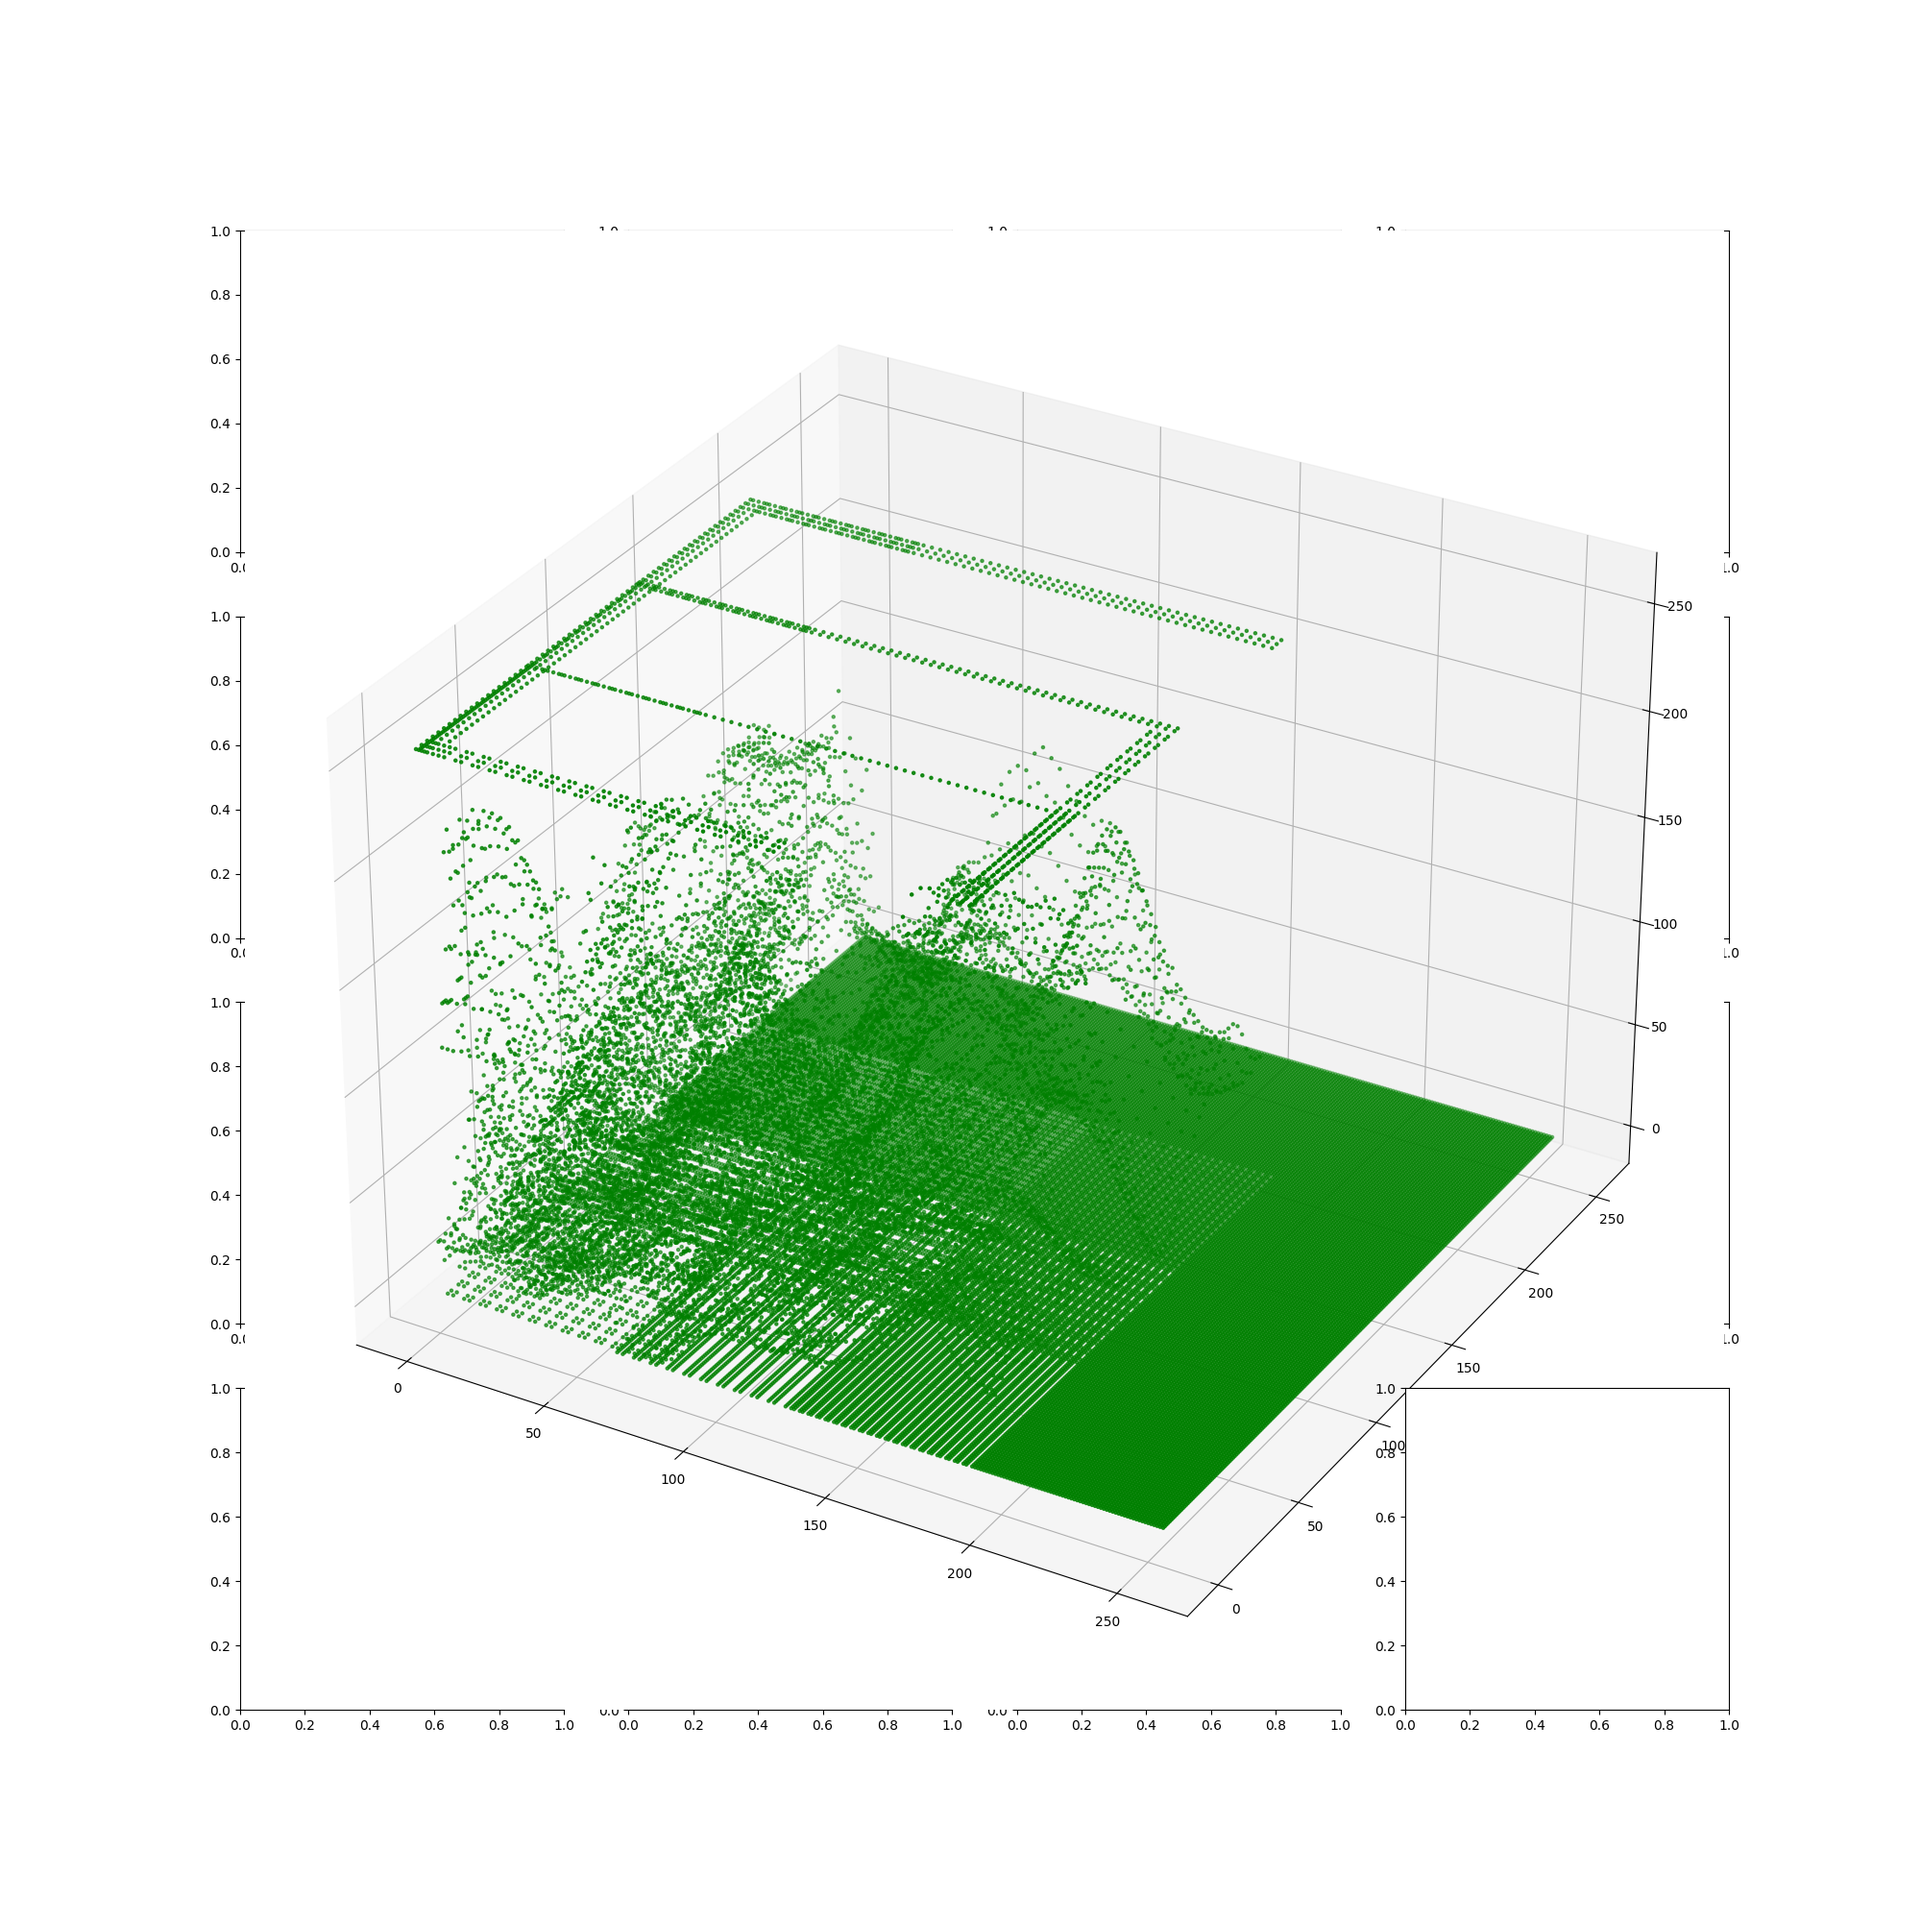
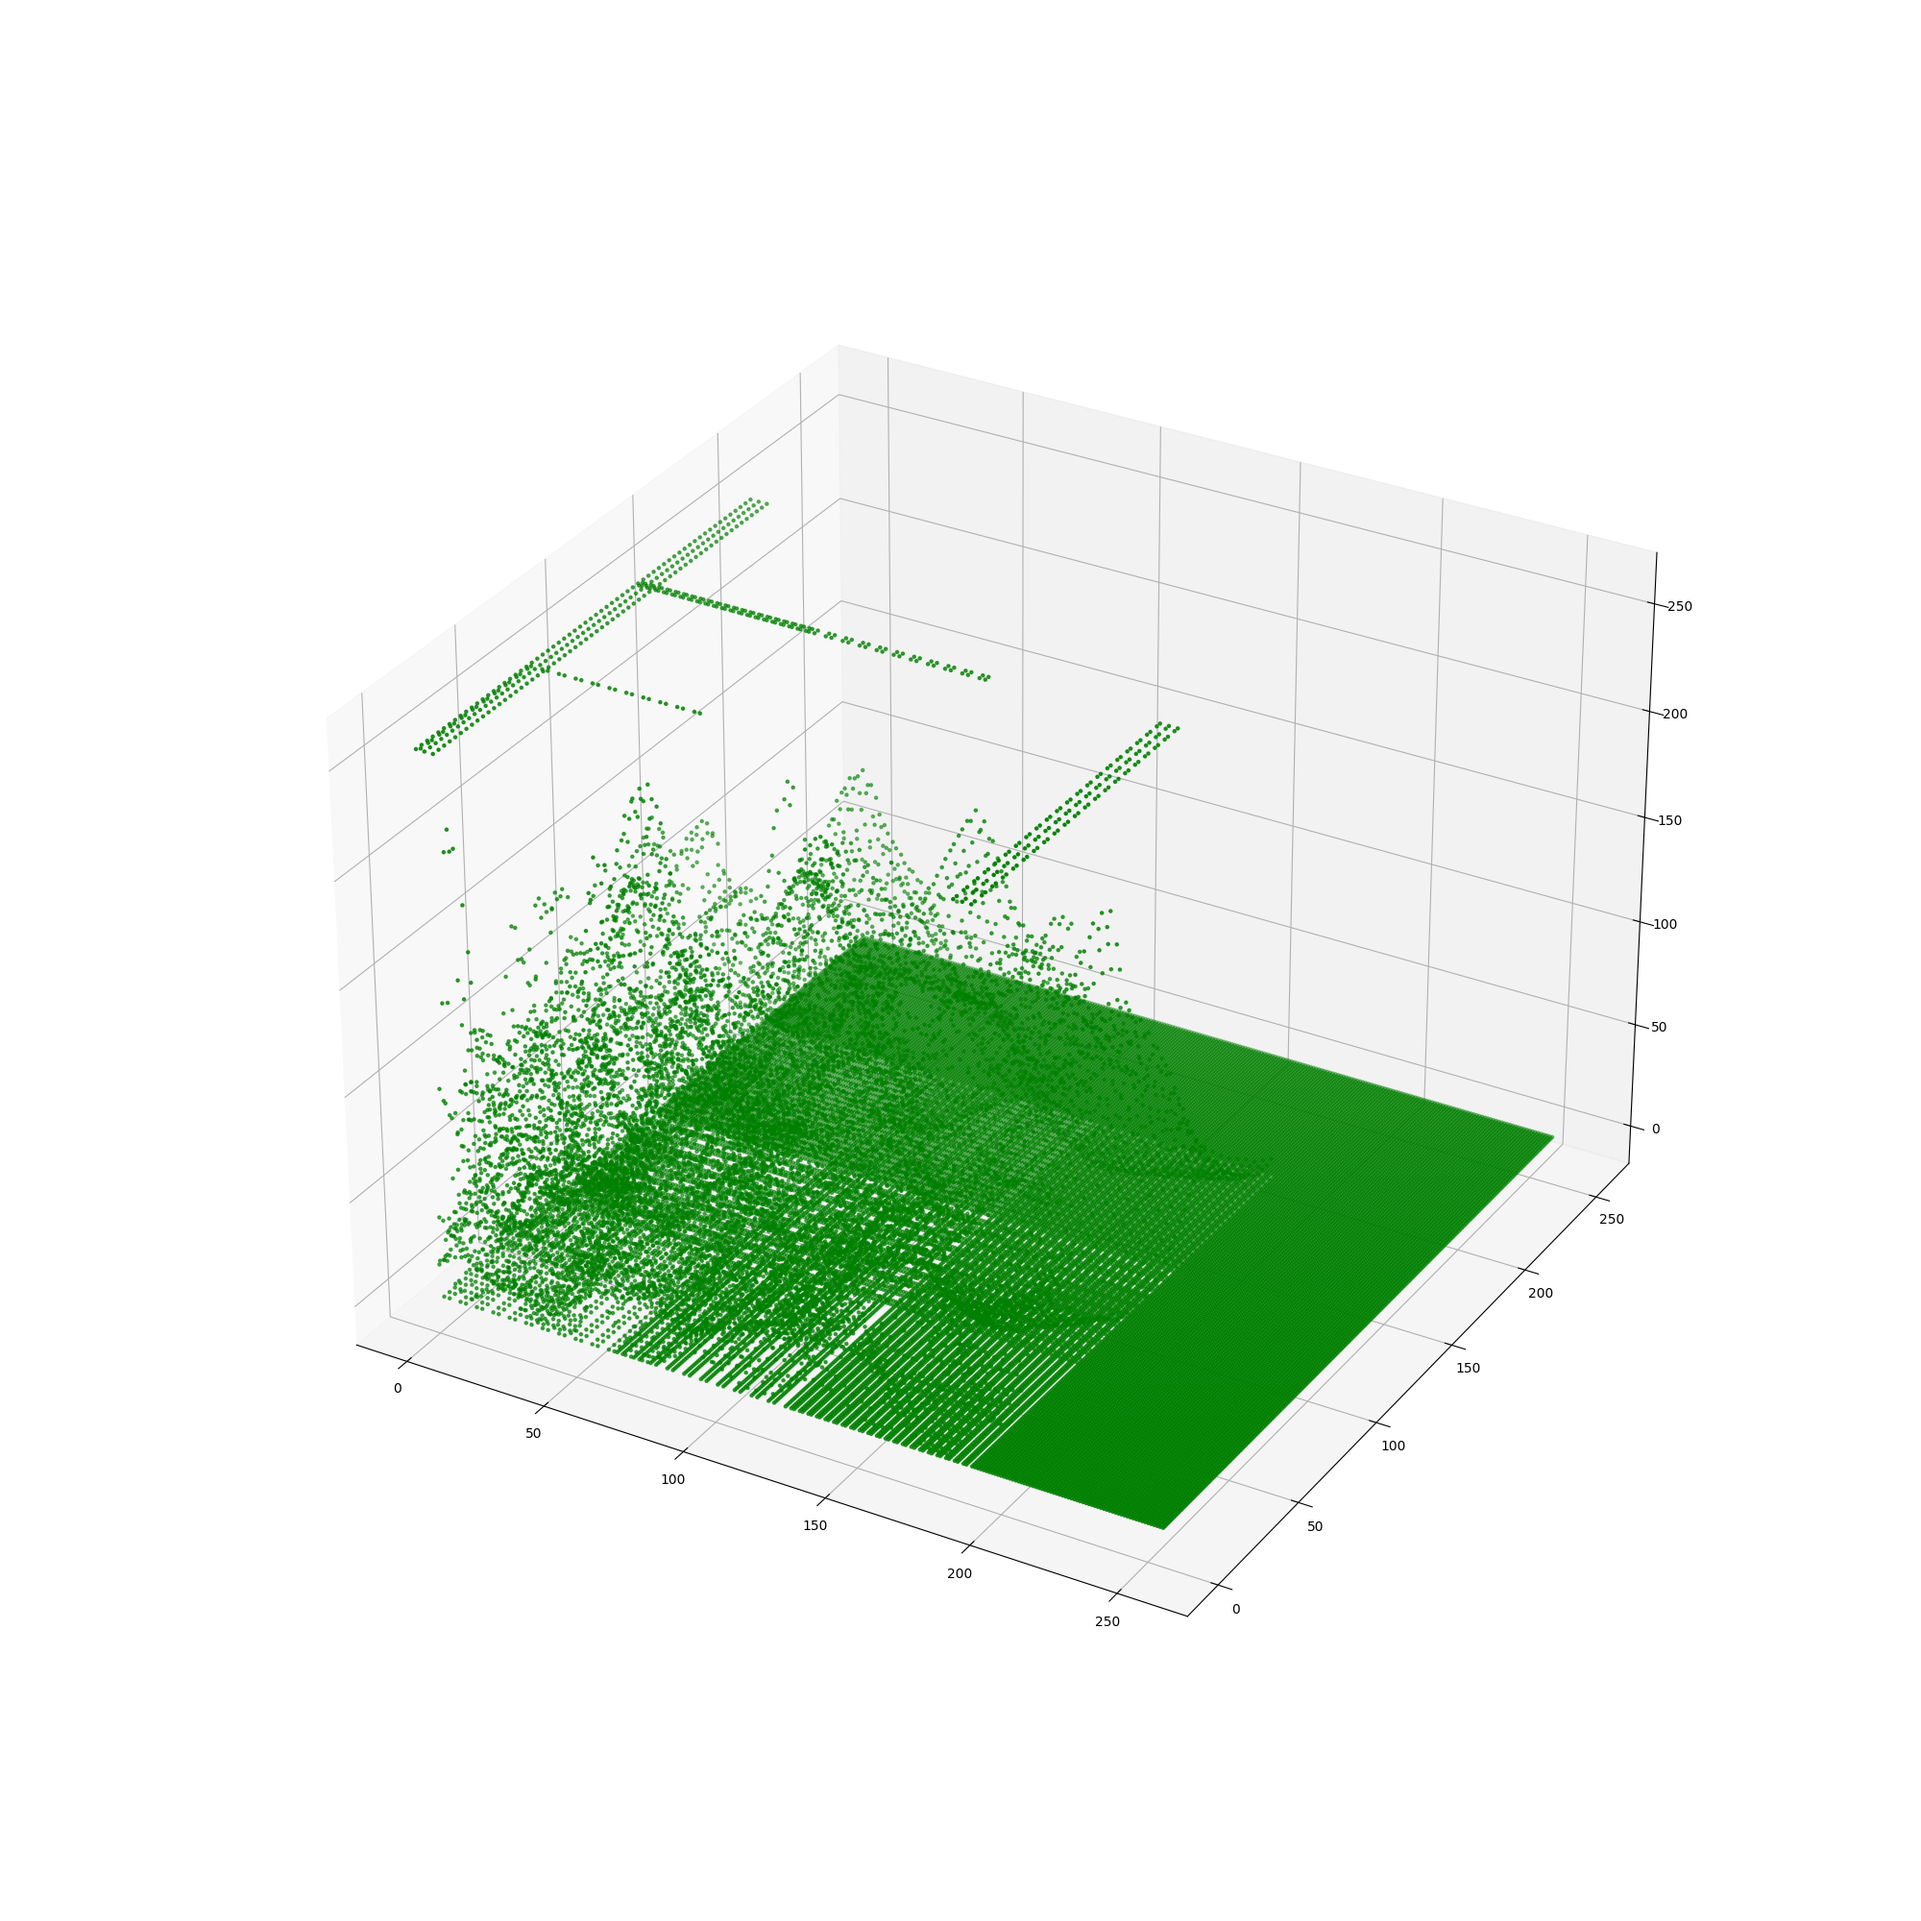
last commit...

diff --git a/main.py b/main.py
@@ -144,26 +144,20 @@ nike = plt.figure(figsize=(20, 20))
 
 x, y = [], []
 
-for i in range(64):
+for i in range(256):
     x.append(i)
     y.append(i)
 
 
-plt.subplot(4, 4, 1)
-
-for i in range(16):
-    ax = plt.axes(projection="3d")
-
-    ax.subplot(4, 4, i + 1)
-
-    xgrid, ygrid = np.meshgrid(x, y)
-    plt.scatter(
-        xgrid,
-        ygrid,
-        new_array[i],
-        c="g",
-        s=5,
-    )
+ax = plt.axes(projection="3d")
+xgrid, ygrid = np.meshgrid(x, y)
+ax.scatter(
+    xgrid,
+    ygrid,
+    new_array,
+    c="g",
+    s=5,
+)
 
 plt.savefig("test.png")
 
